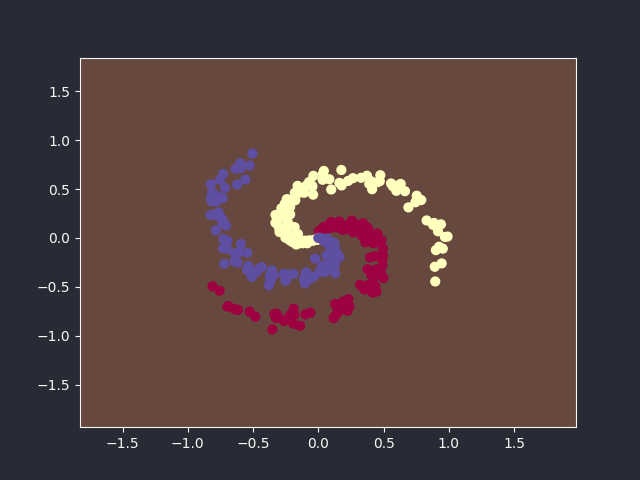
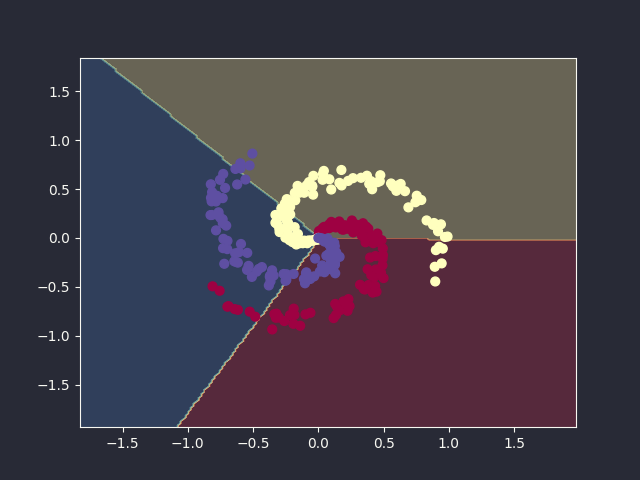
spiral classify plot

diff --git a/regression/snippets/spiral_plot.py b/regression/snippets/spiral_plot.py
@@ -1,7 +1,7 @@
 import matplotlib.pyplot as plt
 import numpy as np
 
-from regression.regression import gradient_descent_softmax
+from regression.regression import getAccuracy, gradient_descent_softmax
 
 np.random.seed(100)
 
@@ -35,6 +35,7 @@ w = np.zeros([X_spiral.shape[1] + 1, len(np.unique(y_spiral))])
 w_history = gradient_descent_softmax(
     w, X_spiral, y_spiral, reg=1e-3, alpha=1.0, iterations=200
 )
+w = w_history[-1]
 # end::spiral_gradient_descent
 
 # plot the resulting classifier
@@ -52,3 +53,5 @@ plt.scatter(X_spiral[:, 0], X_spiral[:, 1], c=y_spiral, s=40, cmap=plt.cm.Spectr
 plt.xlim(xx.min(), xx.max())
 plt.ylim(yy.min(), yy.max())
 plt.savefig("assets/spiral_classify.png")
+
+print(f"Accuracy: {getAccuracy(w, X_spiral, y_spiral)}")

diff --git a/regression/README.md b/regression/README.md
@@ -1050,15 +1050,6 @@ Example: spiral dataset
 ```python
 X_spiral, y_spiral = gen_spiral_dataset()
 ```
-<details>
-<summary>Output</summary>
-
-```
-
-```
-
-</details>
-
 
 ![](../assets/spiral_plot.png)
 
@@ -1067,6 +1058,16 @@ w = np.zeros([X_spiral.shape[1] + 1, len(np.unique(y_spiral))])
 w_history = gradient_descent_softmax(
     w, X_spiral, y_spiral, reg=1e-3, alpha=1.0, iterations=200
 )
+w = w_history[-1]
 ```
+<details open>
+<summary>Output</summary>
+
+```
+Accuracy: 0.5166666666666667
+```
+
+</details>
+
 
 ![](../assets/spiral_classify.png)

diff --git a/regression/README.template.md b/regression/README.template.md
@@ -698,12 +698,12 @@ Example: spiral dataset
 ```python
 ${{ spiral_gen }}
 ```
-$[[ regression.snippets.spiral_plot ]]
 
 ![](../assets/spiral_plot.png)
 
 ```python
 ${{ spiral_gradient_descent }}
 ```
+$[[ +regression.snippets.spiral_plot ]]
 
 ![](../assets/spiral_classify.png)
